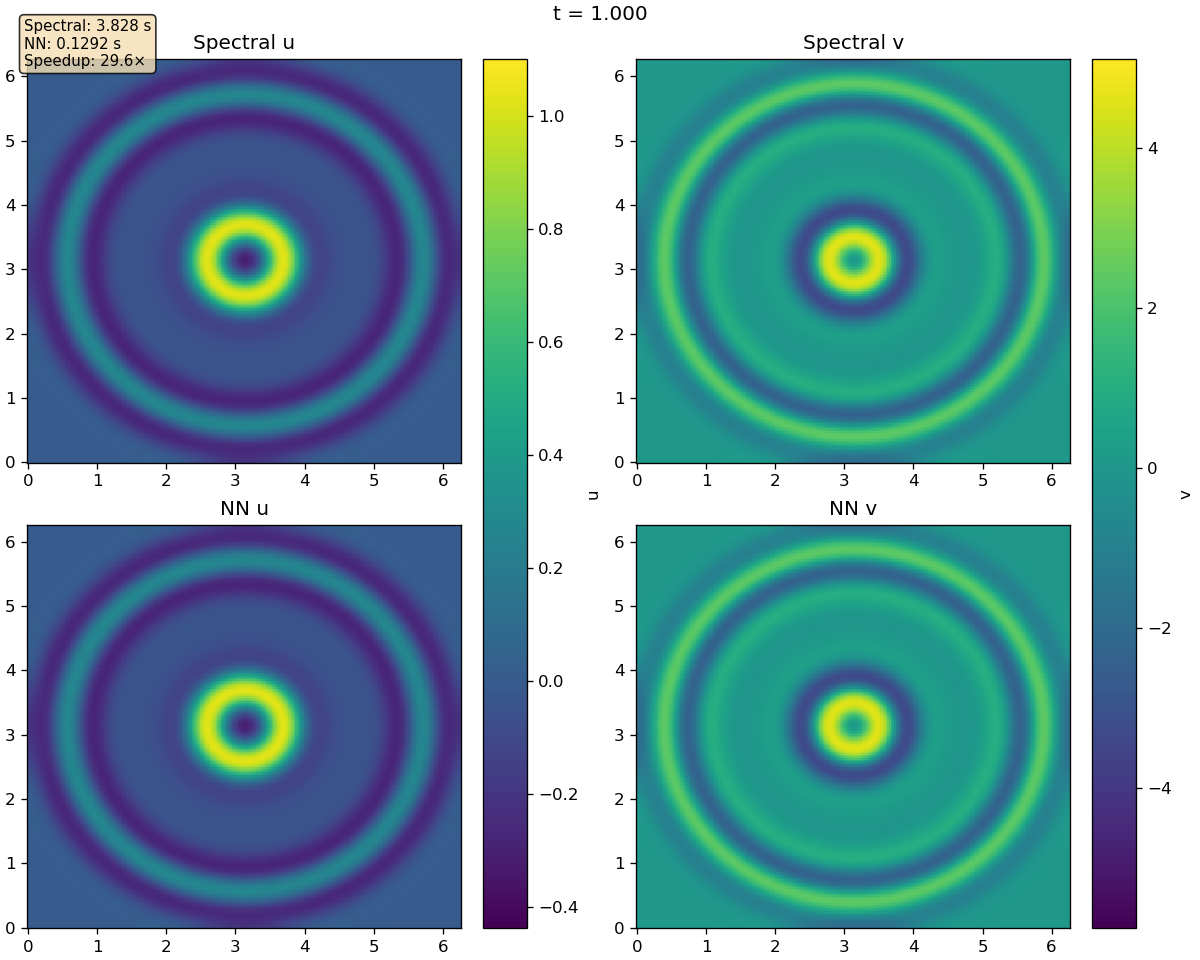
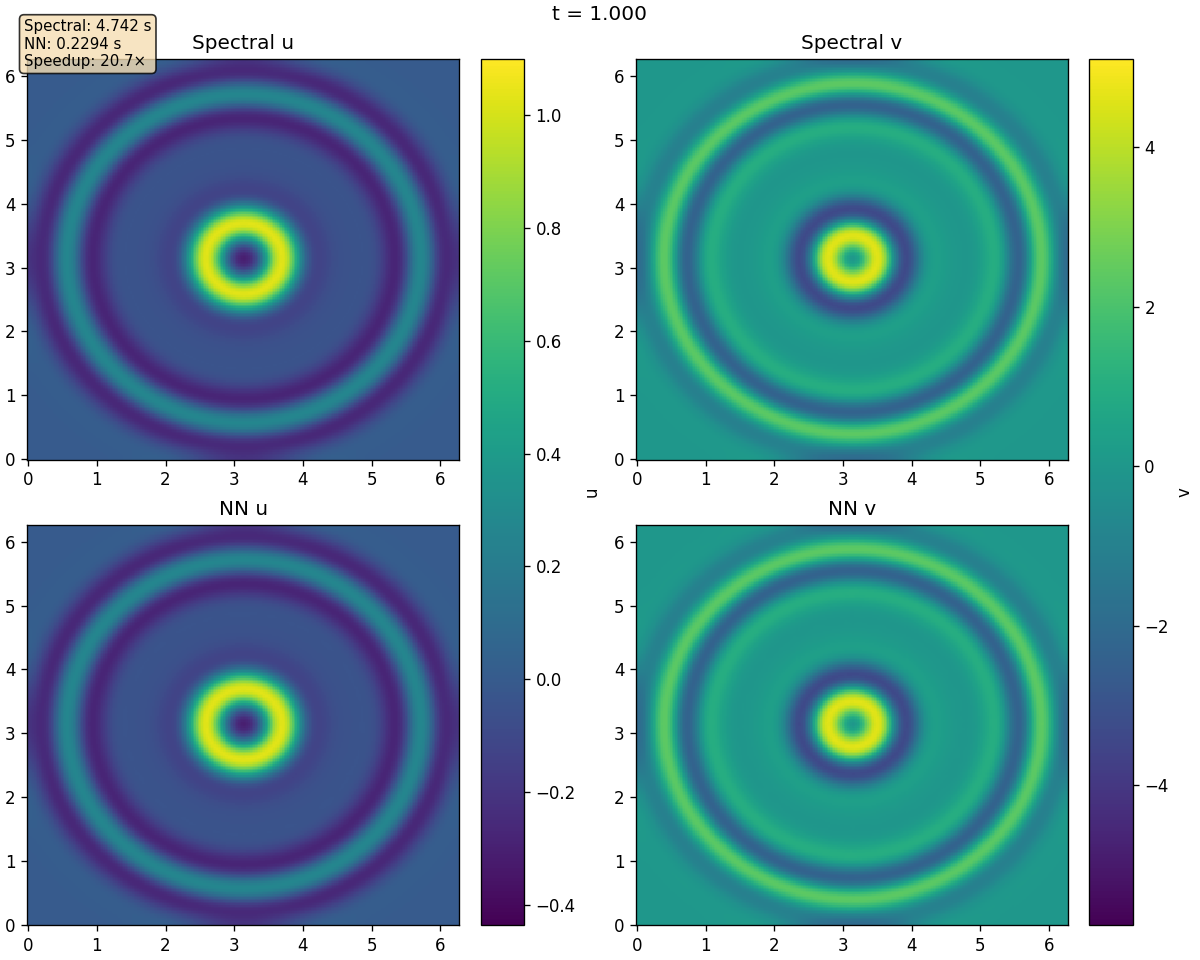
Run full pipeline, update config and tooling
- Run full pipeline for burgers_1d and wave_2d_linear; update latex figures and report.tex timing/speedup numbers
- wave_2d_nonlinear: switch smooth_mode to absolute, extend compare_TF to 3.0; retrain and rerun compare (figures pending fix due to NN rollout divergence under absolute TV)
- CLAUDE.md: add 目录, Bash command conventions (no trailing echo), Git section
- .claude/settings.local.json: add Bash(ls *) and Bash(echo *) to allowlist

diff --git a/latex/report.tex b/latex/report.tex
@@ -139,7 +139,7 @@ Figure~\ref{fig:training} shows train and test loss (L1) vs.\ epoch for the thre
 \end{figure}
 
 \subsection{1D Burgers: FV vs.\ NN}
-Comparison at 6 output times $t\in[0,2]$ (config: \texttt{compare\_t\_end=2.0}, \texttt{compare\_n\_times=6}). Reference: FV solver; surrogate: MLP rollout. Runtimes (this run): FV total $5.428$\,s, NN total $0.5120$\,s (speedup $10.6\times$).
+Comparison at 6 output times $t\in[0,2]$ (config: \texttt{compare\_t\_end=2.0}, \texttt{compare\_n\_times=6}). Reference: FV solver; surrogate: MLP rollout. Runtimes (this run): FV total $7.038$\,s, NN total $0.7372$\,s (speedup $9.55\times$).
 
 \begin{figure}[H]
   \centering
@@ -159,7 +159,7 @@ Comparison at 6 output times $t\in[0,2]$ (config: \texttt{compare\_t\_end=2.0}, 
 \end{figure}
 
 \subsection{2D linear wave: Spectral vs.\ NN}
-Comparison at 6 aligned frames (config: \texttt{compare\_TF=1.0}, \texttt{compare\_ic=ring}, $n_{\mathrm{jp}}=2$). Reference: Fourier spectral; surrogate: MLP over patches. Runtimes (this run): Spectral $3.828$\,s, NN $0.1292$\,s (speedup $29.63\times$).
+Comparison at 6 aligned frames (config: \texttt{compare\_TF=1.0}, \texttt{compare\_ic=ring}, $n_{\mathrm{jp}}=2$). Reference: Fourier spectral; surrogate: MLP over patches. Runtimes (this run): Spectral $4.742$\,s, NN $0.2294$\,s (speedup $20.7\times$).
 
 \begin{figure}[H]
   \centering
@@ -179,7 +179,7 @@ Comparison at 6 aligned frames (config: \texttt{compare\_TF=1.0}, \texttt{compar
 \end{figure}
 
 \subsection{2D nonlinear shallow water: Spectral vs.\ NN}
-Comparison at 8 aligned frames for state $(h-h_0,q_x,q_y)$ (config: \texttt{compare\_TF=2.0}, \texttt{compare\_ic=random}, $n_{\mathrm{jp}}=2$). Both reference and NN rollout start from $T=4.0$ (warmup phase $t\in[0,4]$ excluded). Reference: spectral; surrogate: CNN with TV regularization ($\lambda=0.05$, base=48, 150 epochs). Best configuration from parameter sweep over \texttt{smooth\_weight}\,$\in\{0,0.01,0.05,0.1\}$ and \texttt{base}\,$\in\{32,48\}$. L1 error (mean over frames) $0.014217$ (max frame $0.025887$). Runtimes (this run): Spectral $71.076$\,s, NN $4.240$\,s (speedup $16.8\times$).
+Comparison at 8 aligned frames for state $(h-h_0,q_x,q_y)$ (config: \texttt{compare\_TF=2.0}, \texttt{compare\_ic=random}, $n_{\mathrm{jp}}=2$). Both reference and NN rollout start from $T=4.0$ (warmup phase $t\in[0,4]$ excluded). Reference: spectral; surrogate: CNN with TV regularization ($\lambda=0.05$, base=48, 150 epochs). Best configuration from parameter sweep over \texttt{smooth\_weight}\,$\in\{0,0.01,0.05,0.1\}$ and \texttt{base}\,$\in\{32,48\}$. L1 error (mean over frames) $0.040840$ (max frame $0.076145$). Runtimes (this run): Spectral $69.487$\,s, NN $4.5250$\,s (speedup $15.4\times$).
 
 \begin{figure}[H]
   \centering

diff --git a/config/wave_2d_nonlinear_config.py b/config/wave_2d_nonlinear_config.py
@@ -41,12 +41,12 @@ num_epochs = 150
 base = 48        # CNN base channels (keep moderate size)
 lr_schedule = [(60, 3e-4), (110, 1e-4), (140, 3e-5), (150, 1e-5)]
 smooth_weight = 0.05   # TV regularization weight
-smooth_mode = "relative"   # "absolute" | "relative"
+smooth_mode = "absolute"   # "absolute" | "relative"
 
 warmup_T = 4.0   # frames before this time are excluded from training
 
 # Compare (reference vs NN rollout)
-compare_TF = 2.0
+compare_TF = 3.0
 compare_ic = "random"
 compare_seed = 42
 compare_n_times = 8

diff --git a/CLAUDE.md b/CLAUDE.md
@@ -1,5 +1,8 @@
 # Claude Code 指令
 
+## 目录
+- 不用每次都cd！已经在工作目录！
+
 ## 沟通
 - 始终用**中文**回复。
 
@@ -37,3 +40,9 @@
 
 ## 并行与顺序
 - 数据生成三个问题可同时并行执行；训练建议顺序执行（避免 GPU 争抢）
+
+## Bash 命令规范
+- 不要在 `cp`、`ls` 等命令末尾加 `&& echo "Done"` 之类的确认输出——命令成功即可，无需额外打印。这样可以避免链式命令因末尾非 `cp` 而绕过 allowlist 匹配。
+
+## Git
+- **不要主动 commit**：只有用户明确要求时才执行 `git commit`
